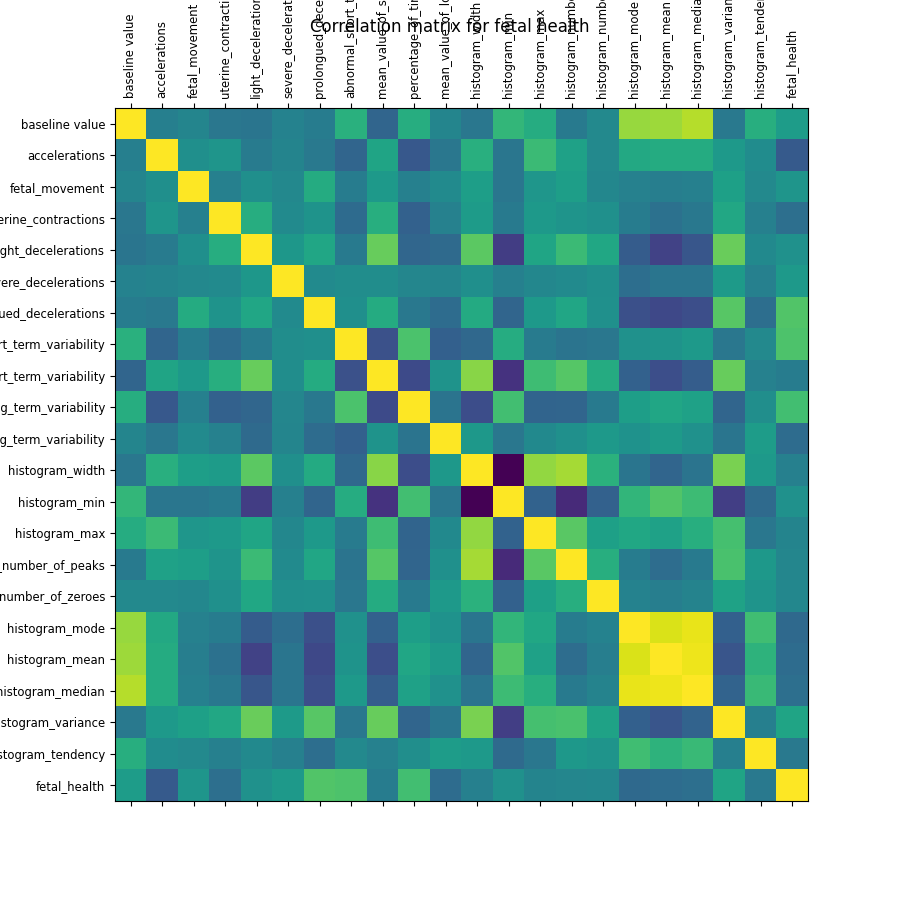
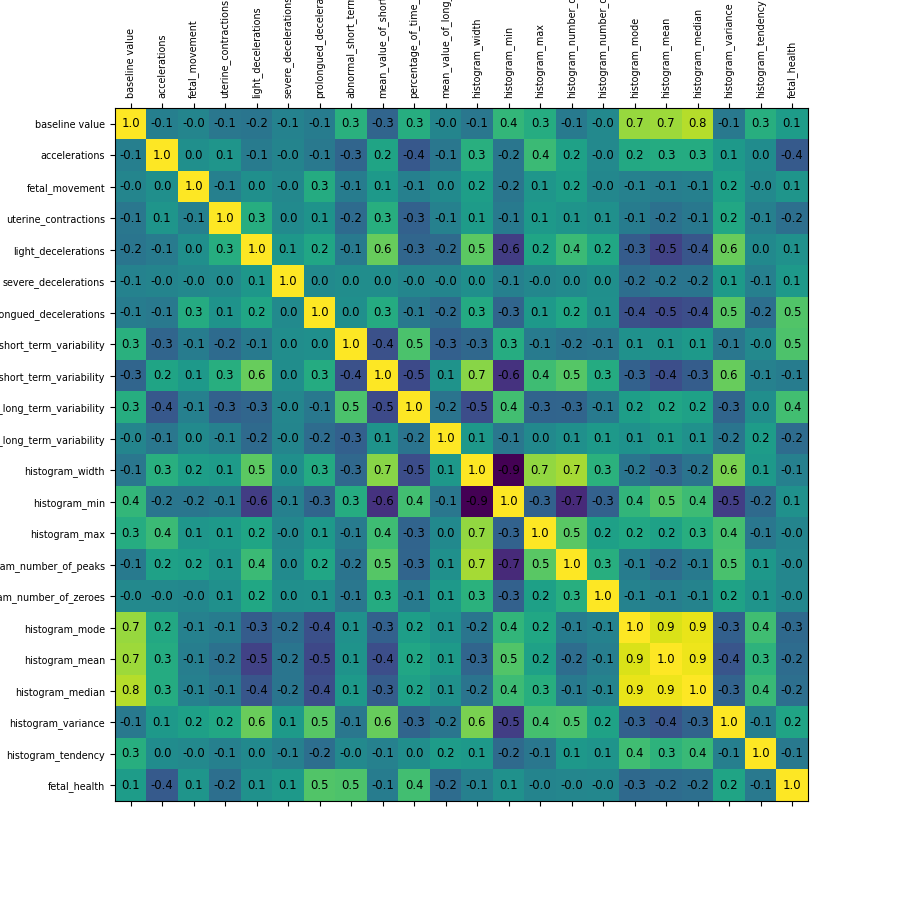
fix: Better correlation matrix

diff --git a/src/visualise.py b/src/visualise.py
@@ -209,16 +209,18 @@ def show_correlation(df: DataFrame, show: bool = False) -> None:
         show (bool, optional): Whether to show the plot on runtime. Defaults to False.
     """
 
-    df.drop(columns=["fetal_health"], axis=1)
-
+    # Plots correlation matrix
     features = df.columns
-    fig, ax = plt.subplots(figsize=(9, 9))
+    _, ax = plt.subplots(figsize=(9, 9))
     ax.matshow(df.corr())
     ax.set_xticks(
-        np.arange((len(features))), features, fontsize="small", rotation="vertical"
+        np.arange((len(features))), features, fontsize="x-small", rotation="vertical"
     )
-    ax.set_yticks(np.arange((len(features))), features, fontsize="small")
-    fig.suptitle("Correlation matrix for fetal health")
+    ax.set_yticks(np.arange((len(features))), features, fontsize="x-small")
+
+    # Sets text label of each box
+    for (i, j), txt in np.ndenumerate(df.corr().values):
+        ax.text(j, i, f"{txt:0.01f}", ha="center", va="center", fontsize="small")
 
     if not exists(f"{FIGURE_DIR}correlation-matrix.png"):
         plt.savefig(f"{FIGURE_DIR}correlation-matrix.png")
